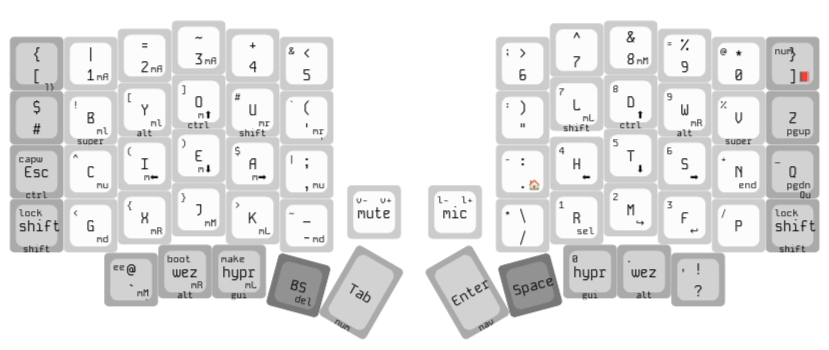
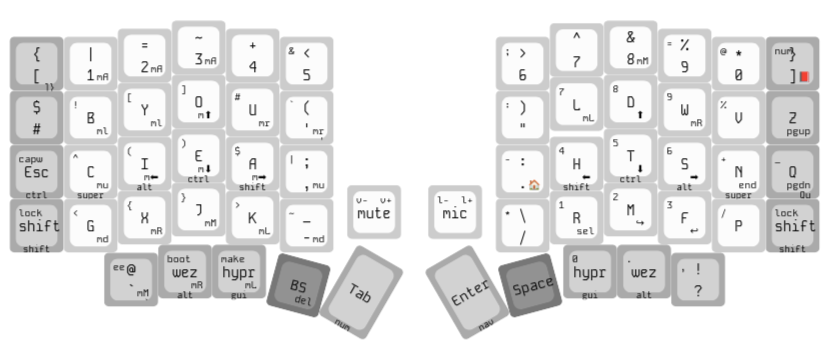
feat: trying out accordions

diff --git a/keymap.c b/keymap.c
@@ -4,7 +4,7 @@
 
 #include QMK_KEYBOARD_H
 
-// #include "features/achordion.h"
+#include "features/achordion.h"
 #include "features/custom_shift_keys.h"
 #include "features/layer_lock.h"
 #include "features/select_word.h"
@@ -56,7 +56,7 @@ const custom_shift_key_t custom_shift_keys[] = {
 uint8_t NUM_CUSTOM_SHIFT_KEYS = sizeof(custom_shift_keys) / sizeof(custom_shift_key_t);
 
 const uint16_t PROGMEM keymaps[][MATRIX_ROWS][MATRIX_COLS] = {
-  [_ERMAK] = LAYOUT(L(KC_LEFT_BRACKET), KC_1, KC_2, KC_3, KC_4, KC_5, KC_6, KC_7, KC_8, KC_9, KC_0, KC_RIGHT_BRACKET, KC_HASH, LGUI_T(KC_B), LALT_T(KC_Y), LCTL_T(KC_O), LSFT_T(KC_U), L(KC_QUOTE), KC_DOUBLE_QUOTE, RSFT_T(KC_L), RCTL_T(KC_D), RALT_T(KC_W), RGUI_T(KC_V), KC_Z, LCTL_T(KC_ESC), KC_C, KC_I, KC_E, KC_A, KC_COMMA, KC_DOT, KC_H, KC_T, KC_S, KC_N, L(KC_Q), OSM(MOD_LSFT), KC_G, KC_X, KC_J, KC_K, KC_MINUS, KC_MUTE, KC_F20, KC_SLASH, KC_R, KC_M, KC_F, KC_P, OSM(MOD_RSFT), L(KC_GRAVE), LALT_T(KC_NO), LGUI_T(KC_NO), KC_BACKSPACE, LT(_NUM, KC_TAB), LT(_NAV, KC_ENTER), KC_SPACE, RGUI_T(KC_NO), RALT_T(KC_NO), KC_QUESTION),
+  [_ERMAK] = LAYOUT(L(KC_LEFT_BRACKET), KC_1, KC_2, KC_3, KC_4, KC_5, KC_6, KC_7, KC_8, KC_9, KC_0, KC_RIGHT_BRACKET, KC_HASH, KC_B, KC_Y, KC_O, KC_U, L(KC_QUOTE), KC_DOUBLE_QUOTE, KC_L, KC_D, KC_W, KC_V, KC_Z, LCTL_T(KC_ESC), LGUI_T(KC_C), LALT_T(KC_I), LCTL_T(KC_E), LSFT_T(KC_A), KC_COMMA, KC_DOT, RSFT_T(KC_H), RCTL_T(KC_T), RALT_T(KC_S), RGUI_T(KC_N), L(KC_Q), OSM(MOD_LSFT), KC_G, KC_X, KC_J, KC_K, KC_MINUS, KC_MUTE, KC_F20, KC_SLASH, KC_R, KC_M, KC_F, KC_P, OSM(MOD_RSFT), L(KC_GRAVE), LALT_T(KC_NO), LGUI_T(KC_NO), KC_BACKSPACE, LT(_NUM, KC_TAB), LT(_NAV, KC_ENTER), KC_SPACE, RGUI_T(KC_NO), RALT_T(KC_NO), KC_QUESTION),
   [_TYPING] = LAYOUT(KC_LEFT_BRACKET, _______, _______, _______, _______, _______, _______, _______, _______, _______, _______, _______, _______, KC_B, KC_Y, KC_O, KC_U, KC_QUOTE, _______, KC_L, KC_D, KC_W, KC_V, _______, _______, KC_C, KC_I, KC_E, KC_A, _______, _______, KC_H, KC_T, KC_S, KC_N, _______, KC_LSFT, KC_G, KC_X, KC_J, KC_K, _______, _______, _______, _______, KC_R, KC_M, KC_F, KC_P, KC_RSFT, KC_GRAVE, _______, _______, _______, _______, _______, _______, _______, _______, _______),
   [_DVORAK] = LAYOUT(KC_GRAVE, _______, _______, _______, _______, _______, _______, _______, _______, _______, _______, KC_BACKSLASH, KC_EQUAL, LGUI_T(KC_QUOTE), LALT_T(KC_COMMA), LCTL_T(KC_DOT), LSFT_T(KC_P), KC_Y, KC_F, RSFT_T(KC_G), RCTL_T(KC_C), RALT_T(KC_R), RGUI_T(KC_L), KC_SLASH, _______, KC_A, KC_O, KC_E, KC_U, KC_I, KC_D, KC_H, KC_T, KC_N, KC_S, KC_MINUS, _______, KC_SEMICOLON, KC_Q, KC_J, KC_K, KC_X, _______, DF(_ERMAK), KC_B, KC_M, KC_W, KC_V, KC_Z, _______, KC_LEFT_BRACKET, _______, _______, _______, _______, _______, _______, _______, _______, KC_RIGHT_BRACKET),
   [_QWERTY] = LAYOUT(KC_GRAVE, _______, _______, _______, _______, _______, _______, _______, _______, _______, _______, KC_BACKSLASH, KC_EQUAL, LGUI_T(KC_Q), LALT_T(KC_W), LCTL_T(KC_E), LSFT_T(KC_R), KC_T, KC_Y, RSFT_T(KC_U), RCTL_T(KC_I), RALT_T(KC_O), RGUI_T(KC_P), KC_MINUS, _______, KC_A, KC_S, KC_D, KC_F, KC_G, KC_H, KC_J, KC_K, KC_L, KC_SEMICOLON, KC_QUOTE, _______, KC_Z, KC_X, KC_C, KC_V, KC_B, _______, _______, KC_N, KC_M, KC_COMMA, KC_DOT, KC_SLASH, _______, KC_LEFT_BRACKET, _______, _______, _______, _______, _______, _______, _______, _______, KC_RIGHT_BRACKET),
@@ -86,7 +86,7 @@ static uint16_t axis_val = 255;
 
 uint8_t mod_state;
 bool process_record_user(uint16_t keycode, keyrecord_t *record) {
-  // if (!process_achordion(keycode, record)) return false;
+  if (!process_achordion(keycode, record)) return false;
   if (!process_layer_lock(keycode, record, PG_LOCK)) return false;
   if (!process_select_word(keycode, record, PG_SEL)) return false;
 
@@ -212,9 +212,39 @@ bool process_record_user(uint16_t keycode, keyrecord_t *record) {
   return true;
 }
 
-// void matrix_scan_user(void) {
-//   achordion_task();
-// }
+void matrix_scan_user(void) {
+  achordion_task();
+}
+
+bool achordion_chord(uint16_t tap_hold_keycode, keyrecord_t* tap_hold_record, uint16_t other_keycode, keyrecord_t* other_record) {
+  switch (tap_hold_keycode) {
+    case LCTL_T(KC_E):
+      if (other_keycode == KC_U) return true;
+      break;
+    case RGUI_T(KC_N):
+      if (other_keycode == RSFT_T(KC_H) || other_keycode == KC_L) return true;
+      break;
+  }
+
+  if (other_record->event.key.row % (MATRIX_ROWS / 2) == 0) return true;
+  if (other_record->event.key.row % (MATRIX_ROWS / 2) == 4) return true;
+
+  return achordion_opposite_hands(tap_hold_record, other_record);
+}
+
+uint16_t achordion_timeout(uint16_t tap_hold_keycode) {
+  switch (tap_hold_keycode) {
+    case LCTL_T(KC_ESC):
+    case LT(_NUM, KC_TAB):
+    case LT(_NAV, KC_ENTER):
+      return 0;
+  }
+  return 800;
+}
+
+uint16_t achordion_streak_timeout(uint16_t tap_hold_keycode) {
+  return 120;
+}
 
 #if defined(OLED_ENABLE)
 

diff --git a/templates/keymap.c b/templates/keymap.c
@@ -4,7 +4,7 @@
 
 #include QMK_KEYBOARD_H
 
-// #include "features/achordion.h"
+#include "features/achordion.h"
 #include "features/custom_shift_keys.h"
 #include "features/layer_lock.h"
 #include "features/select_word.h"
@@ -68,7 +68,7 @@ static uint16_t axis_val = 255;
 
 uint8_t mod_state;
 bool process_record_user(uint16_t keycode, keyrecord_t *record) {
-  // if (!process_achordion(keycode, record)) return false;
+  if (!process_achordion(keycode, record)) return false;
   if (!process_layer_lock(keycode, record, PG_LOCK)) return false;
   if (!process_select_word(keycode, record, PG_SEL)) return false;
 
@@ -194,9 +194,39 @@ bool process_record_user(uint16_t keycode, keyrecord_t *record) {
   return true;
 }
 
-// void matrix_scan_user(void) {
-//   achordion_task();
-// }
+void matrix_scan_user(void) {
+  achordion_task();
+}
+
+bool achordion_chord(uint16_t tap_hold_keycode, keyrecord_t* tap_hold_record, uint16_t other_keycode, keyrecord_t* other_record) {
+  switch (tap_hold_keycode) {
+    case LCTL_T(KC_E):
+      if (other_keycode == KC_U) return true;
+      break;
+    case RGUI_T(KC_N):
+      if (other_keycode == RSFT_T(KC_H) || other_keycode == KC_L) return true;
+      break;
+  }
+
+  if (other_record->event.key.row % (MATRIX_ROWS / 2) == 0) return true;
+  if (other_record->event.key.row % (MATRIX_ROWS / 2) == 4) return true;
+
+  return achordion_opposite_hands(tap_hold_record, other_record);
+}
+
+uint16_t achordion_timeout(uint16_t tap_hold_keycode) {
+  switch (tap_hold_keycode) {
+    case LCTL_T(KC_ESC):
+    case LT(_NUM, KC_TAB):
+    case LT(_NAV, KC_ENTER):
+      return 0;
+  }
+  return 800;
+}
+
+uint16_t achordion_streak_timeout(uint16_t tap_hold_keycode) {
+  return 120;
+}
 
 #if defined(OLED_ENABLE)
 

diff --git a/config.h b/config.h
@@ -18,6 +18,8 @@
 #define JOYSTICK_AXIS_COUNT 4
 #define JOYSTICK_AXIS_RESOLUTION 10
 
+#define ACHORDION_STREAK
+
 #undef DYNAMIC_KEYMAP_LAYER_COUNT
 #define DYNAMIC_KEYMAP_LAYER_COUNT 11
 
